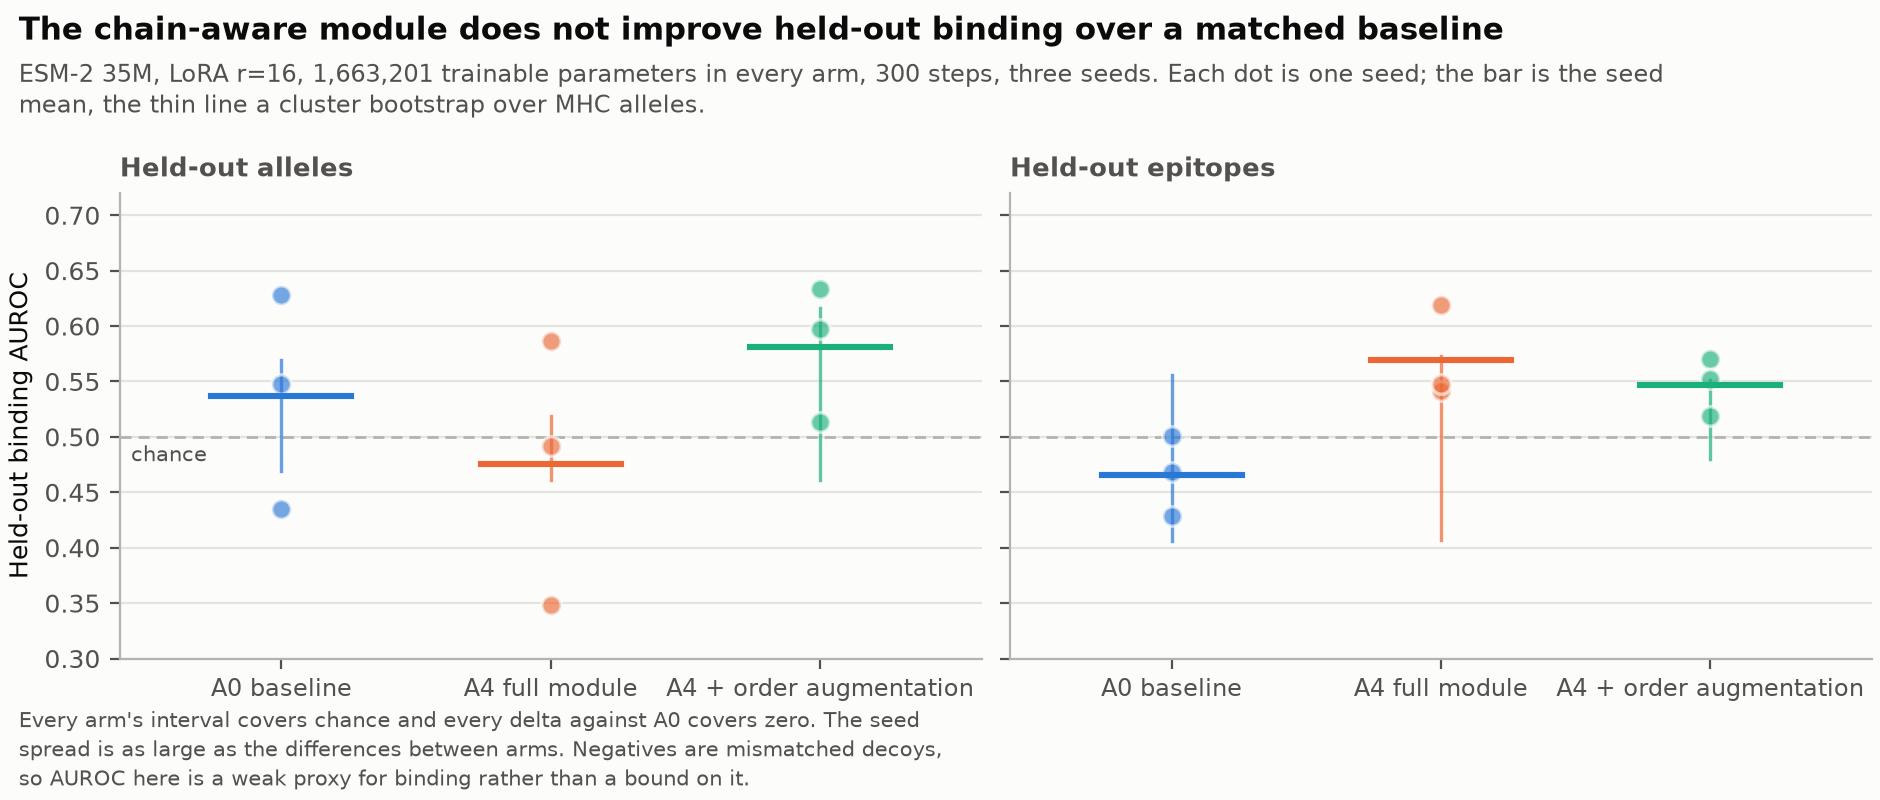
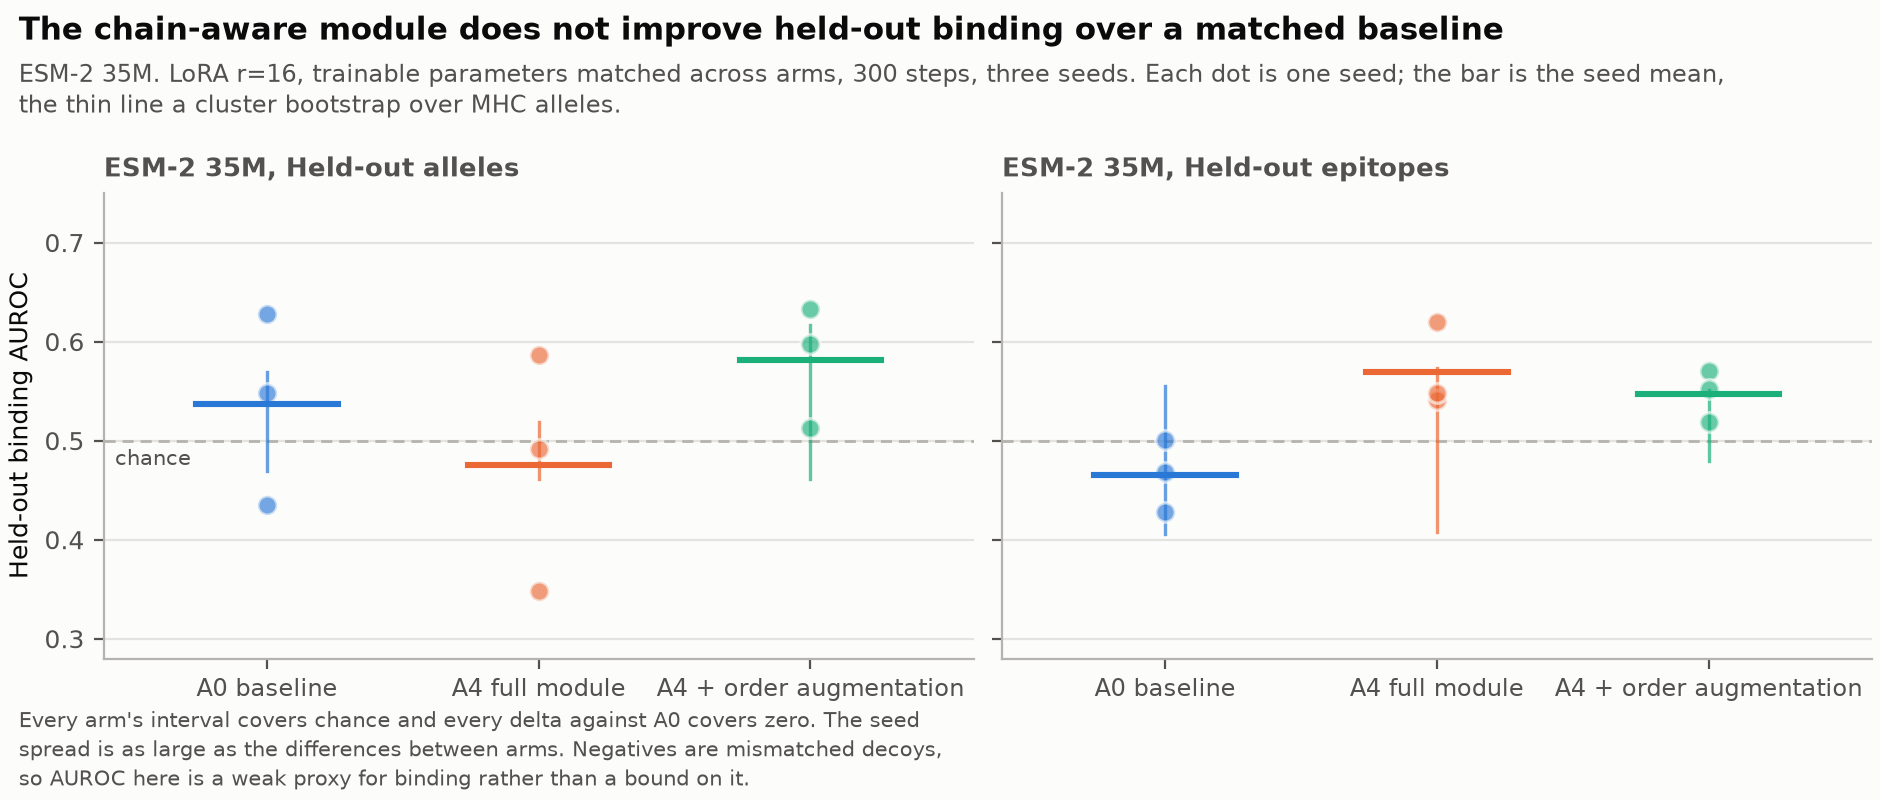
Let fig7 and the classifier sweep span model sizes
fig7 now draws one row per model size whose results exist, so the 650M arms
appear beside 35M without a second figure. classifier.py gains --root so a
second size can be swept without overwriting the first.

diff --git a/src/cla/eval/figures.py b/src/cla/eval/figures.py
@@ -875,70 +875,83 @@ def fig6_allele_balanced(results: Path, out: Path) -> None:
 ARM_LABELS = {"A0": "A0 baseline", "A4": "A4 full module", "A5": "A4 + order augmentation"}
 
 
-def fig7_h2_classifier(out: Path, results: Path = Path("results/phase2/classifier")) -> None:
-    """Per-seed held-out AUROC against chance, the direct test of H2.
+CLASSIFIER_ROOTS = (
+    ("ESM-2 35M", Path("results/phase2/classifier")),
+    ("ESM-2 650M", Path("results/phase2/classifier_650m")),
+)
 
-    Seeds are drawn individually rather than as a mean with an error bar: the seed spread is
-    as large as the between-arm differences, and that is the finding.
-    """
-    path = results / "summary.tsv"
+
+def _classifier_seeds(root: Path) -> tuple[dict, dict] | None:
+    path = root / "summary.tsv"
     if not path.exists():
-        return
+        return None
     with path.open() as fh:
         rows = {r["arm"]: r for r in csv.DictReader(fh, delimiter="\t")}
     seeds: dict[str, dict[str, list[float]]] = {}
     for arm in ARM_LABELS:
         per: dict[str, list[float]] = {}
         for s in range(3):
-            m = results / "runs" / f"{arm}_s{s}" / "metrics.json"
+            m = root / "runs" / f"{arm}_s{s}" / "metrics.json"
             if not m.exists():
                 continue
             ev = json.loads(m.read_text())["eval"]
             for shard in ("test_allele", "test_epitope"):
                 per.setdefault(shard, []).append(ev[shard]["auroc"]["point"])
-        if per:
+        if per and arm in rows:
             seeds[arm] = per
-    if not seeds:
+    return (rows, seeds) if seeds else None
+
+
+def fig7_h2_classifier(out: Path, roots=CLASSIFIER_ROOTS) -> None:
+    """Per-seed held-out AUROC against chance, the direct test of H2.
+
+    Seeds are drawn individually rather than as a mean with an error bar: the seed spread is
+    as large as the between-arm differences, and that is the finding.
+    """
+    loaded = [(label, *d) for label, root in roots if (d := _classifier_seeds(root))]
+    if not loaded:
         return
 
     shards = [("test_allele", "Held-out alleles"), ("test_epitope", "Held-out epitopes")]
-    fig, axes = plt.subplots(1, 2, figsize=(9.4, 4.0), sharey=True)
-    arms = list(seeds)
-    for ax, (shard, shard_title) in zip(axes, shards, strict=True):
-        for i, arm in enumerate(arms):
-            vals = seeds[arm][shard]
-            color = TARGET_COLORS[TARGETS[i % len(TARGETS)]]
-            ax.plot(
-                [i] * len(vals),
-                vals,
-                ls="none",
-                marker="o",
-                markersize=7,
-                color=color,
-                alpha=0.65,
-                markeredgecolor=SURFACE,
-                markeredgewidth=1.2,
-                zorder=3,
-            )
-            mean = float(rows[arm][f"{shard}_auroc_mean"])
-            lo = float(rows[arm][f"{shard}_auroc_lo"])
-            hi = float(rows[arm][f"{shard}_auroc_hi"])
-            ax.plot([i - 0.26, i + 0.26], [mean, mean], color=color, lw=2.2, zorder=4)
-            ax.plot([i, i], [lo, hi], color=color, lw=1.2, alpha=0.7, zorder=2)
-        ax.axhline(0.5, color=AXIS, lw=1, ls=DASH, zorder=1)
-        ax.set_xticks(range(len(arms)), [ARM_LABELS[a] for a in arms], fontsize=8.5)
-        ax.set_xlim(-0.6, len(arms) - 0.4)
-        ax.set_ylim(0.3, 0.72)
-        ax.grid(False, axis="x")
-        ax.set_title(shard_title, fontsize=9.5, color=TEXT_2, loc="left")
-    axes[0].set_ylabel("Held-out binding AUROC", fontsize=9)
-    _ref_label(axes[0], "chance", y=0.5)
+    nrow = len(loaded)
+    fig, axes = plt.subplots(nrow, 2, figsize=(9.4, 1.0 + 3.0 * nrow), sharey=True, squeeze=False)
+    for row, (size_label, rows, seeds) in enumerate(loaded):
+        arms = list(seeds)
+        for ax, (shard, shard_title) in zip(axes[row], shards, strict=True):
+            for i, arm in enumerate(arms):
+                color = TARGET_COLORS[TARGETS[i % len(TARGETS)]]
+                ax.plot(
+                    [i] * len(seeds[arm][shard]),
+                    seeds[arm][shard],
+                    ls="none",
+                    marker="o",
+                    markersize=7,
+                    color=color,
+                    alpha=0.65,
+                    markeredgecolor=SURFACE,
+                    markeredgewidth=1.2,
+                    zorder=3,
+                )
+                mean = float(rows[arm][f"{shard}_auroc_mean"])
+                lo = float(rows[arm][f"{shard}_auroc_lo"])
+                hi = float(rows[arm][f"{shard}_auroc_hi"])
+                ax.plot([i - 0.26, i + 0.26], [mean, mean], color=color, lw=2.2, zorder=4)
+                ax.plot([i, i], [lo, hi], color=color, lw=1.2, alpha=0.7, zorder=2)
+            ax.axhline(0.5, color=AXIS, lw=1, ls=DASH, zorder=1)
+            ax.set_xticks(range(len(arms)), [ARM_LABELS[a] for a in arms], fontsize=8.5)
+            ax.set_xlim(-0.6, len(arms) - 0.4)
+            ax.set_ylim(0.28, 0.75)
+            ax.grid(False, axis="x")
+            ax.set_title(f"{size_label}, {shard_title}", fontsize=9.5, color=TEXT_2, loc="left")
+        axes[row][0].set_ylabel("Held-out binding AUROC", fontsize=9)
+        _ref_label(axes[row][0], "chance", y=0.5)
 
+    sizes = ", ".join(label for label, _, _ in loaded)
     fig.set_layout_engine("constrained")
     _headline(
         fig,
         "The chain-aware module does not improve held-out binding over a matched baseline",
-        "ESM-2 35M, LoRA r=16, 1,663,201 trainable parameters in every arm, 300 steps, three "
+        f"{sizes}. LoRA r=16, trainable parameters matched across arms, 300 steps, three "
         "seeds. Each dot is one seed; the bar is the seed mean, the thin line a cluster "
         "bootstrap over MHC alleles.",
         "Every arm's interval covers chance and every delta against A0 covers zero. The seed\n"
